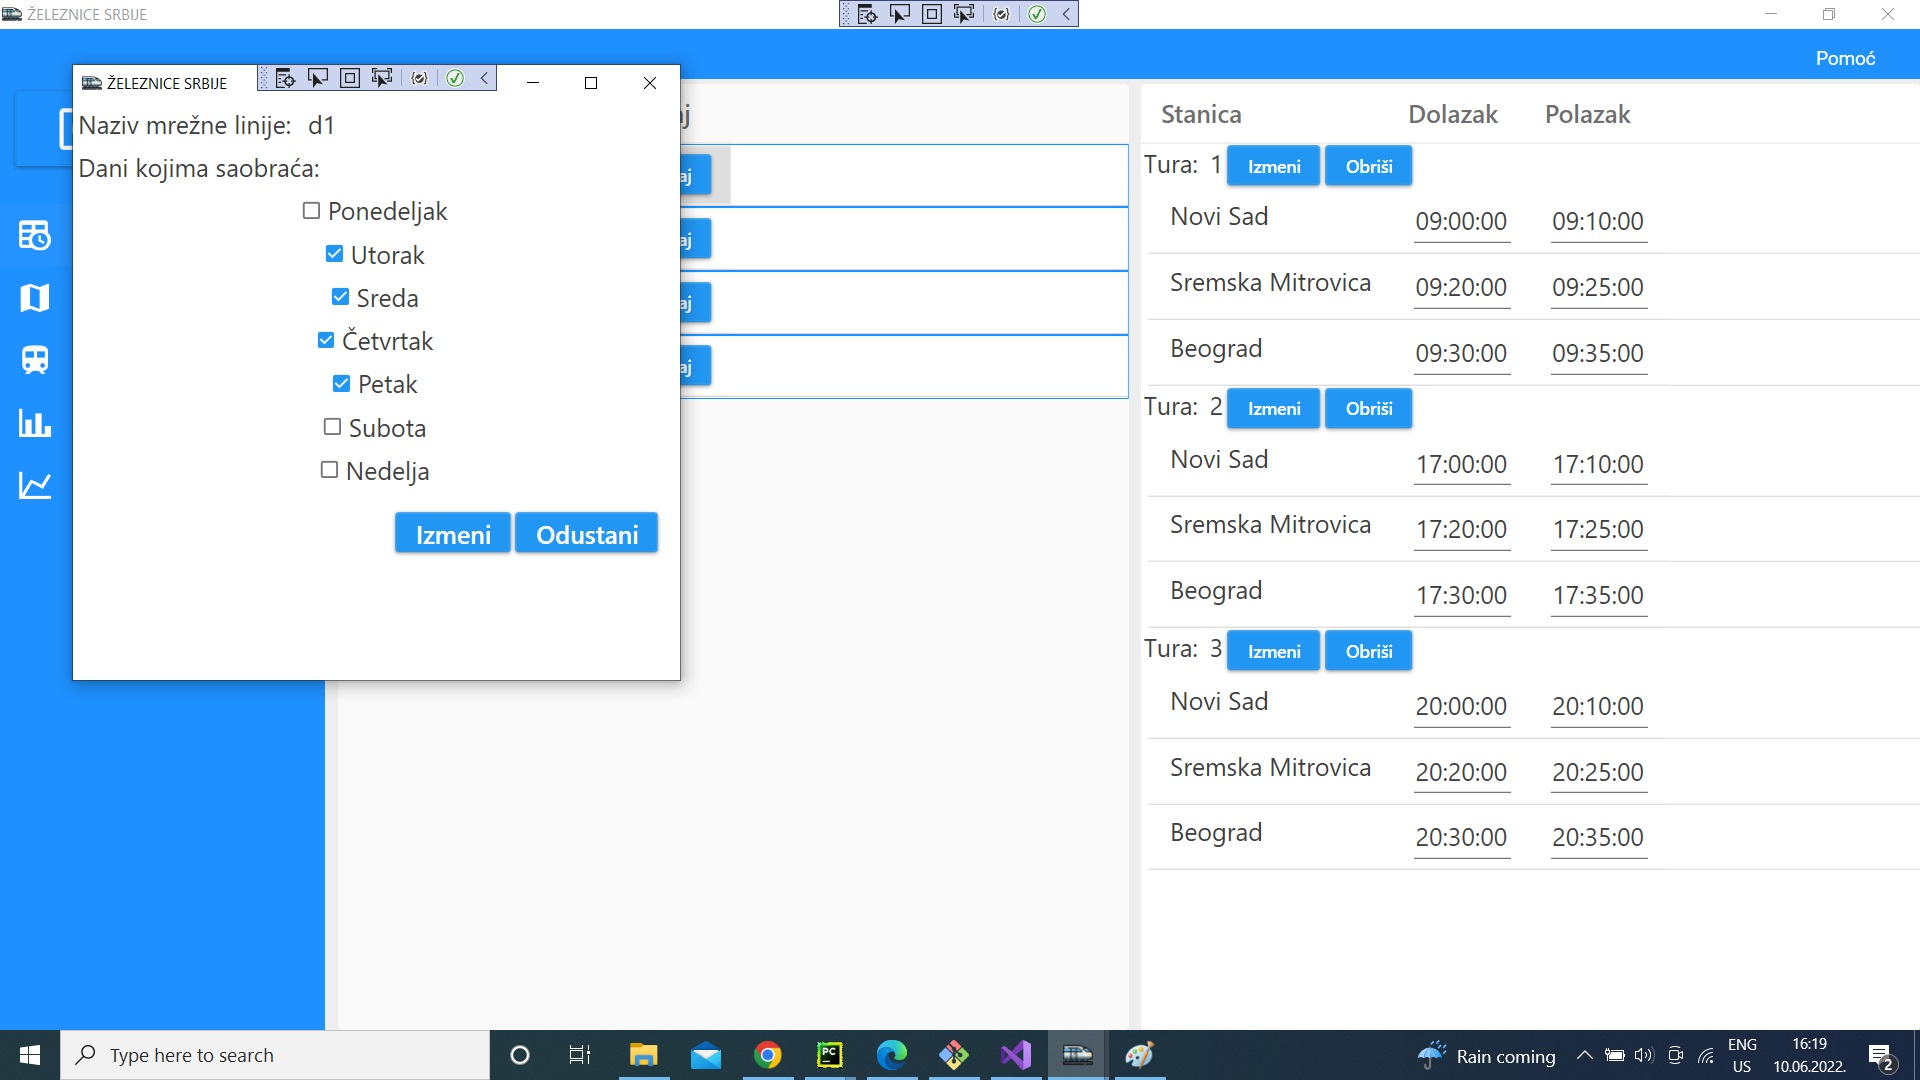
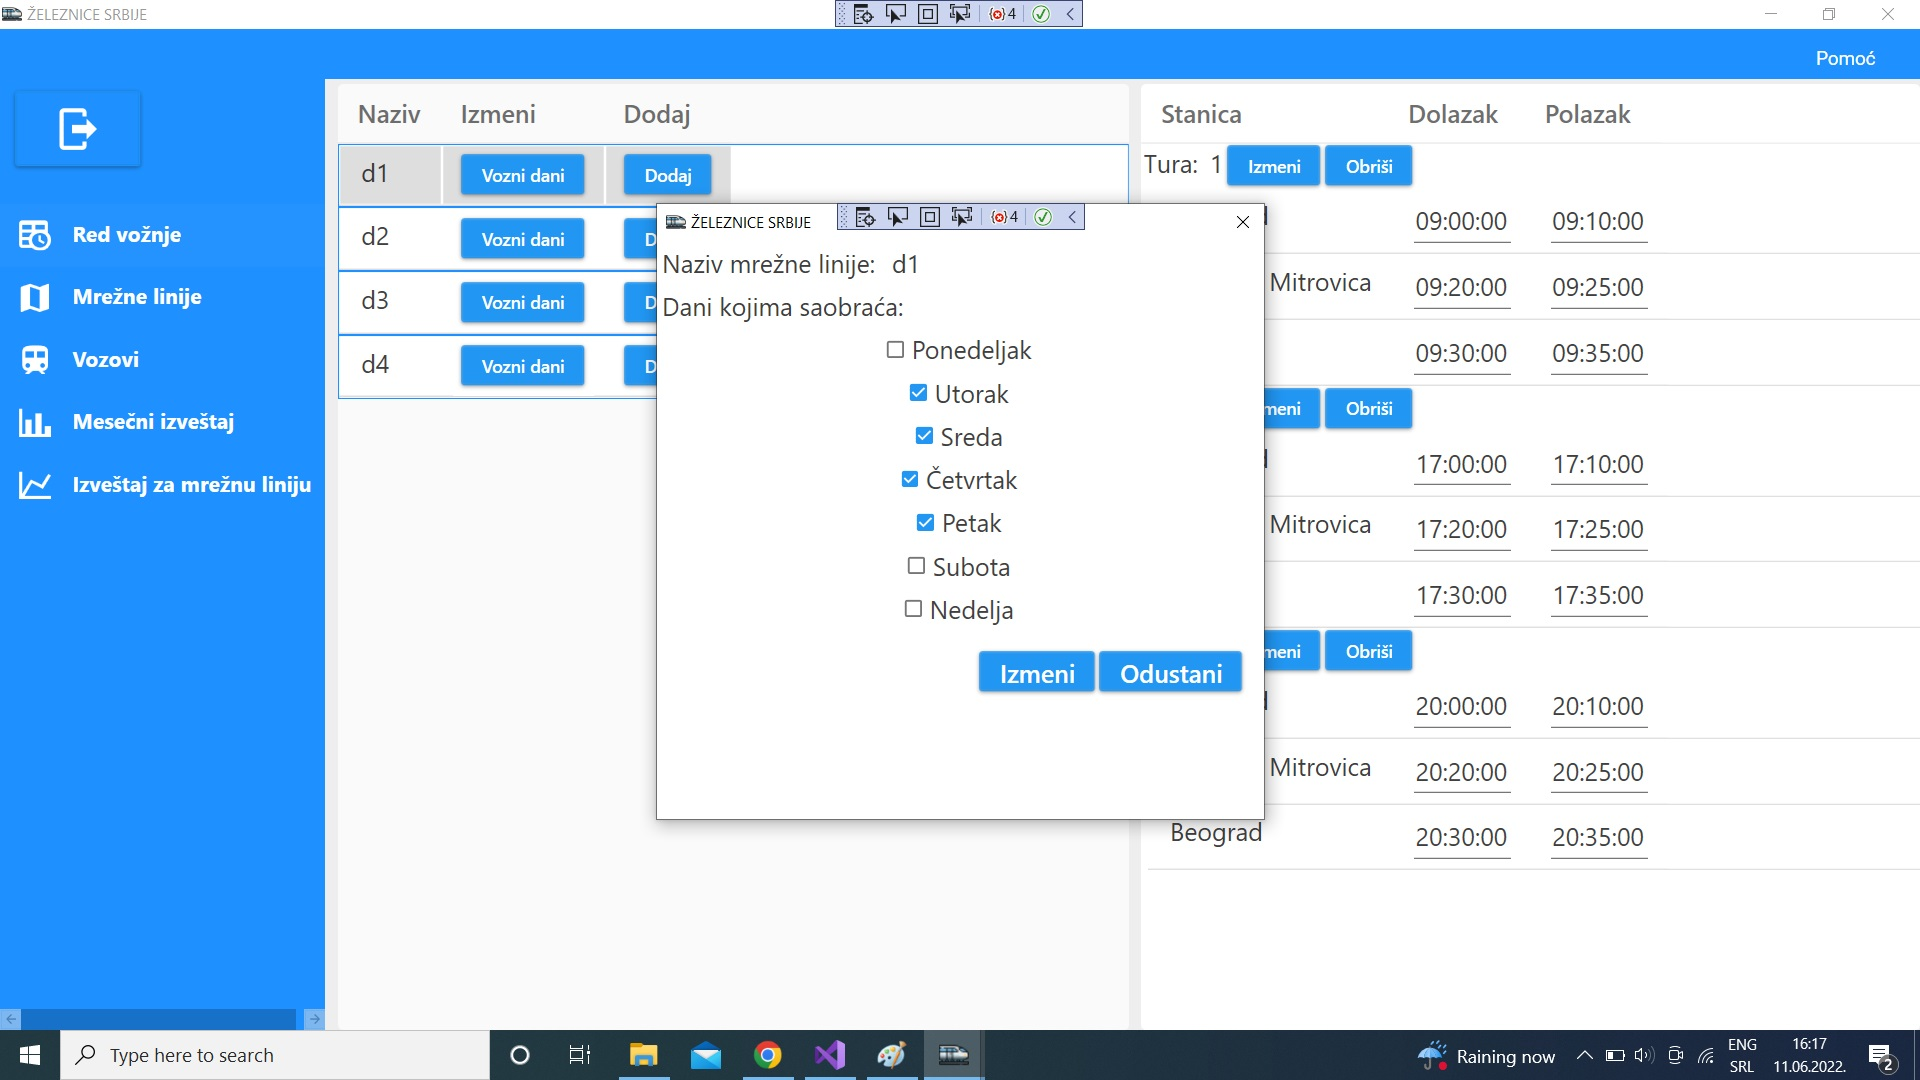
Help

diff --git a/railway/railway/Help/MreznaLinija.htm b/railway/railway/Help/MreznaLinija.htm
@@ -6,7 +6,7 @@
     <title>Mrežna linija</title>
 </head>
 <body>
-    <p style="text-align:left; font-size:30px;"> Otvaranjem taba <i>Mrežna linija</i>, prikazuju se sve aktivne mrežne linije kao na slici 1. Prikazani su naziv linije i voz koji saobraća na toj liniji</p>
+    <p style="text-align:left; font-size:30px;"> Otvaranjem taba <i>Mrežna linija</i> (CTRL + M), prikazuju se sve aktivne mrežne linije kao na slici 1. Prikazani su naziv linije i voz koji saobraća na toj liniji. Za pokretanje tutorijala izaberite iz menija <b>"Pomoć"</b> pa Tutorijal ili ukucajte prečicu na CTRL + P.</p>
     <div style="text-align:center;">
         <img src="../../../../images/mrezneLinijePOCETNA.jpg" style="width:700px; height:500px" />
         <br />
@@ -28,16 +28,14 @@
         <label>Slika 3</label>
     </div>
 
-    <p style="text-align:left; font-size:30px;">Klikom na dugme <b>"+"</b> otvara se prozor koji omogućava dodavanje nove mrežne linije. Definisinje mrežne linije se vrši prevlačenjem naziva grada na mapu. Na slici 4 nalazi se prikaz stanice za definisanje mrežne linije. Pritiskom na dugme "Promeni" otvara se stranica koja omogućuje dodavanje klikom na dugme (Slika 6). </p>
+    <p style="text-align:left; font-size:30px;">Klikom na dugme <b>"+"</b> otvara se prozor koji omogućava dodavanje nove mrežne linije. Definisinje mrežne linije se vrši prevlačenjem naziva grada na mapu. Na slici 4 nalazi se prikaz stanice za definisanje mrežne linije. Pritiskom na dugme <b>"Promeni"</b> otvara se stranica koja omogućuje dodavanje klikom na dugme (Slika 6). </p>
     <div style="text-align:center;">
         <img src="../../../../images/mrezneLinijeNOVAdrag.jpg" style="width:700px; height:500px;" />       
         <br />
         <label>Slika 4</label>
     </div>
 
-
-
-    <p style="text-align:left; font-size:30px;">Pritiskom na dugme "Sačuvaj" otvaraja se prozor za unos naziva mrežne linije i odabira voza (Slika 5). </p>
+    <p style="text-align:left; font-size:30px;">Pritiskom na dugme <b>"Sačuvaj"</b> otvaraja se prozor za unos naziva mrežne linije i odabira voza (Slika 5). </p>
     <div style="text-align:center;">
         <img src="../../../../images/mrezneLinijeSACUVAJ.jpg" style="width:700px; height:500px;" />   
         <br />

diff --git a/railway/railway/ManagerHomePage.xaml b/railway/railway/ManagerHomePage.xaml
@@ -21,6 +21,7 @@
         <CommandBinding Command="cmd:RoutedCommands.DrivingLines" x:Name="DrivingLines" CanExecute="DrivingLines_OnCanExecute" Executed="DrivingLines_OnExecuted"></CommandBinding>
         <CommandBinding Command="cmd:RoutedCommands.Trains" x:Name="Trains" CanExecute="Trains_OnCanExecute" Executed="Trains_OnExecuted"></CommandBinding>
         <CommandBinding Command="cmd:RoutedCommands.Report" x:Name="Report" CanExecute="Report_OnCanExecute" Executed="Report_OnExecuted"></CommandBinding>
+        <CommandBinding Command="cmd:RoutedCommands.Report2" x:Name="Report2" CanExecute="Report2_OnCanExecute" Executed="Report2_OnExecuted"></CommandBinding>
         <CommandBinding Command="ApplicationCommands.Help" Executed="CommandBinding_Executed"/>
         <CommandBinding Command="cmd:RoutedCommands.StartTutorial" x:Name="startTutorial" CanExecute="StartTutorial_OnCanExecute" Executed="StartTutorial_OnExecuted"></CommandBinding>
     </Window.CommandBindings>
@@ -31,13 +32,13 @@
         </Grid.RowDefinitions>
         <StackPanel Grid.Row="0" Grid.Column="0" Height="40" Background="DodgerBlue">
             <Menu Background="DodgerBlue" Foreground="White" HorizontalAlignment="Right" Margin="0,0,20,0">
-                <MenuItem Header="Pomoć" >
-                    <MenuItem Width="200" Header="Pomoć" Command="ApplicationCommands.Help" Click="help_clicked" IsEnabled="True" Foreground="DodgerBlue">
+                <MenuItem Header="Pomoć" x:Name="MenuItem" >
+                    <MenuItem Width="200" Header="Pomoć" Command="ApplicationCommands.Help" Click="help_clicked" IsEnabled="True" x:Name="menuPomoc" Foreground="DodgerBlue">
                         <MenuItem.Icon>
                             <Image Source="/icon/help.png"></Image>
                         </MenuItem.Icon>
                     </MenuItem>
-                    <MenuItem Width="200" Header="Tutorijal" Command="cmd:RoutedCommands.StartTutorial" Click="tutorial_clicked" IsEnabled="True"  Foreground="DodgerBlue"></MenuItem>
+                    <MenuItem Width="200" Header="Tutorijal" Command="cmd:RoutedCommands.StartTutorial" IsEnabled="True"  Foreground="DodgerBlue"></MenuItem>
                 </MenuItem>
             </Menu>
         </StackPanel>

diff --git a/railway/railway/Help/MesecniIzvestaj.htm b/railway/railway/Help/MesecniIzvestaj.htm
@@ -1,0 +1,32 @@
+<!DOCTYPE html>
+
+<html lang="en" xmlns="http://www.w3.org/1999/xhtml">
+<head>
+    <meta charset="utf-8" />
+    <title>Mesečni izveštaji</title>
+</head>
+<body>
+    <p style="text-align:left; font-size:30px;"> Otvaranjem taba <i>Mesečni izveštaji</i>(CTRL + I), prikazuje se stranica na kojoj birate period za koji želite mesečni izveštaj o prodatim kartama.</p>
+    <div style="text-align:center;">
+        <img src="../../../../images/mesecniPOCETNA.jpg" style="width:700px; height:500px" />
+        <br />
+        <label>Slika 1</label>
+    </div>
+
+
+    <p style="text-align: left; font-size: 30px;"> Nakon izbora perioda za koji želite izveštaj i klika na dugme <b>"Prikaži"</b> dobijate izveštaj o prodatim kartama prema tipu sedišta.</p>
+    <div style="text-align:center;">
+        <img src="../../../../images/mesecniSEDISTE.jpg" style="width:700px; height:500px" />
+        <br />
+        <label>Slika 2</label>
+    </div>
+
+    <p style="text-align: left; font-size:30px;">Takođe, možete dobiti pregled prodatih karata prema mrežnim linijama.  </p>
+    <div style="text-align: center;">
+        <img src="../../../../images/mesecniMREZNA.jpg" style="width:700px; height:500px;" />
+        <br />
+        <label>Slika 3</label>
+    </div>
+
+</body>
+</html>

diff --git a/railway/railway/defineDrivingLine/DrivingLines.xaml b/railway/railway/defineDrivingLine/DrivingLines.xaml
@@ -106,14 +106,16 @@
                       MinHeight="200" MaxHeight="700" MinWidth="200"
                       tour:TourHelper.ElementID="datagrid"
                       tour:TourHelper.Placement="BottomCenter">
-            
-            <DataGrid.ItemContainerStyle>
-                <Style TargetType="DataGridRow">
-                    <EventSetter Event="MouseUp" Handler="DrivingLineDataGrid_OnSelected"/>
-                </Style>
-            </DataGrid.ItemContainerStyle>
-                
-            <DataGrid.Columns>
+
+                <DataGrid.RowStyle>
+                    <Style TargetType="{x:Type DataGridRow}" >
+                        <Setter Property="BorderBrush" Value="DodgerBlue" />
+                        <Setter Property="BorderThickness" Value="1" />
+                        <EventSetter Event="MouseUp" Handler="DrivingLineDataGrid_OnSelected"/>
+                    </Style>
+                </DataGrid.RowStyle>
+
+                <DataGrid.Columns>
                 <DataGridTextColumn Header="Ime" Width="Auto" FontSize="20" Binding="{Binding Name}"></DataGridTextColumn>
                 <DataGridTextColumn Header="Voz" Width="Auto" FontSize="20" Binding="{Binding Path=TrainName}" x:Name="TrainName"></DataGridTextColumn>
                 

diff --git a/railway/railway/Help/ManagerAppHelp.htm b/railway/railway/Help/ManagerAppHelp.htm
@@ -8,10 +8,11 @@
 <body>
 
     <h1> Dobro došli na stranicu za pomoć! </h1>
-    <a href="RedVoznje.htm" style="font-size:30px; margin:5px 5px 5px 5px;">Red vožnje</a> <br/>
-    <a href="MreznaLinija.htm" style="font-size:30px; margin:5px 5px 5px 5px;">Mrežna linija</a> <br/>
-    <a href="Vozovi.htm" style="font-size:30px; margin:5px 5px 5px 5px;">Vozovi</a>  <br/>
-    
-
+    <h3 >Za pokretanje tutorijala izaberite iz menija <b>"Pomoć"</b> pa Tutorijal ili ukucajte prečicu na CTRL + P.</h3>
+        <a href="RedVoznje.htm" style="font-size:30px; margin:5px 5px 5px 5px;">Red vožnje</a> <br />
+        <a href="MreznaLinija.htm" style="font-size:30px; margin:5px 5px 5px 5px;">Mrežna linija</a> <br />
+        <a href="Vozovi.htm" style="font-size:30px; margin:5px 5px 5px 5px;">Vozovi</a>  <br />
+        <a href="MesecniIzvestaj.htm" style="font-size:30px; margin:5px 5px 5px 5px;">Mesecni izvestaji o prodatim kartama</a>  <br />
+        <a href="MreznaLinijaIzvestaj.htm" style="font-size:30px; margin:5px 5px 5px 5px;">Izveštaj za voznu liniju</a>  <br />
 </body>
 </html>

diff --git a/railway/railway/Help/MreznaLinijaIzvestaj.htm b/railway/railway/Help/MreznaLinijaIzvestaj.htm
@@ -1,0 +1,24 @@
+<!DOCTYPE html>
+
+<html lang="en" xmlns="http://www.w3.org/1999/xhtml">
+<head>
+    <meta charset="utf-8" />
+    <title>Izveštaj za voznu liniju</title>
+</head>
+<body>
+    <p style="text-align:left; font-size:30px;"> Otvaranjem taba <i>Izveštaj za mrežnu liniju</i> (CTRL + O), prikazuje se stranica na kojoj birate mrežnu liniju za koju se prikaže izveštaj o broju i tipu prodatih karata.</p>
+    <div style="text-align:center;">
+        <img src="../../../../images/izvestajVOZNA.jpg" style="width:700px; height:500px" />
+        <br />
+        <label>Slika 1</label>
+    </div>
+
+
+    <p style="text-align: left; font-size: 30px;"> Nakon izbora mrežne linije prikazuje se izveštaj grafički i tabelarno.</p>
+    <div style="text-align:center;">
+        <img src="../../../../images/mesecniSEDISTE.jpg" style="width:700px; height:500px" />   ovde fali slika animacija ode
+        <br />
+        <label>Slika 2</label>
+    </div>
+</body>
+</html>

diff --git a/railway/railway/defineDrivingLine/ViewDrivingLines.xaml b/railway/railway/defineDrivingLine/ViewDrivingLines.xaml
@@ -11,7 +11,6 @@
              MinWidth="400">
     <UserControl.CommandBindings>
         <CommandBinding Command="ApplicationCommands.Help" Executed="CommandBinding_Executed"/>
-        <CommandBinding Command="cmd:RoutedCommands.Insert" x:Name="InsertDrivingLine" CanExecute="InsertDrivingLine_OnCanExecute" Executed="InsertDrivingLine_OnExecuted"></CommandBinding>
 
     <!--    <CommandBinding Command="cmd:RoutedCommands.MoveBack" x:Name="goBack" CanExecute="GoBack_OnCanExecute" Executed="GoBack_OnExecuted"></CommandBinding>
         <CommandBinding Command="cmd:RoutedCommands.MoveForward" x:Name="goForward" CanExecute="GoForward_OnCanExecute" Executed="GoForward_OnExecuted"></CommandBinding>-->

diff --git a/railway/railway/managerSchedule/ChangeTrafficDay.xaml b/railway/railway/managerSchedule/ChangeTrafficDay.xaml
@@ -8,7 +8,8 @@
         xmlns:cmd="clr-namespace:railway.Commands"
         xmlns:l="clr-namespace:railway"
         Icon="/icon/trainIcon.png"
-        Title="ŽELEZNICE SRBIJE" Height="500" Width="500" MaxHeight="500" MaxWidth="500">
+        Title="ŽELEZNICE SRBIJE" Height="500" Width="500" MaxHeight="500" MaxWidth="500"
+        WindowStartupLocation="CenterScreen" ResizeMode="NoResize">
     <Window.CommandBindings>
         <CommandBinding Command="ApplicationCommands.Help" Executed="CommandBinding_Executed"/>
         <CommandBinding Command="cmd:RoutedCommands.Save" x:Name="save" CanExecute="Save_OnCanExecute" Executed="Save_OnExecuted"></CommandBinding>

diff --git a/railway/railway/Help/RedVoznje.htm b/railway/railway/Help/RedVoznje.htm
@@ -6,7 +6,7 @@
     <title>Red vožnje</title>
 </head>
 <body>
-    <p style="text-align:left; font-size:30px;"> Otvaranjem taba <i>Red vožnje</i>, prikazuju se sve aktivne mrezne linije kao na slici 1.</p>
+    <p style="text-align:left; font-size:30px;"> Otvaranjem taba <i>Red vožnje</i> (CTRL + R), prikazuju se sve aktivne mrežne linije kao na slici 1. Za pokretanje tutorijala izaberite iz menija <b>"Pomoć"</b> pa Tutorijal ili ukucajte prečicu na CTRL + P. </p>
     <div style="text-align:center;">
         <img src="../../../../images/redVoznjePocetna.jpg" style="width:700px; height:500px" />
         <br/>

diff --git a/railway/railway/CRUDTrain/AddTrain.xaml b/railway/railway/CRUDTrain/AddTrain.xaml
@@ -8,10 +8,12 @@
         xmlns:l="clr-namespace:railway"
         WindowStartupLocation="CenterScreen"
         mc:Ignorable="d"
+        xmlns:cmd="clr-namespace:railway.Commands"
         Icon="/icon/trainIcon.png"
         Title="ŽELEZNICE SRBIJE"  Height="350" Width="650" ResizeMode="NoResize">
     <Window.CommandBindings>
         <CommandBinding Command="ApplicationCommands.Help" Executed="CommandBinding_Executed"/>
+        <CommandBinding Command="cmd:RoutedCommands.Save" x:Name="save" CanExecute="Save_OnCanExecute" Executed="Save_OnExecuted"></CommandBinding>
     </Window.CommandBindings>
 
     <Grid>

diff --git a/railway/railway/Help/Vozovi.htm b/railway/railway/Help/Vozovi.htm
@@ -6,7 +6,7 @@
     <title>Vozovi</title>
 </head>
 <body>
-    <p style="text-align:left; font-size:30px;"> Otvaranjem taba <i>Vozovi</i>, prikazuju se svi aktivni vozovi kao na slici 1.</p>
+    <p style="text-align:left; font-size:30px;"> Otvaranjem taba <i>Vozovi</i> (CTRL + T), prikazuju se svi aktivni vozovi kao na slici 1. Za pokretanje tutorijala izaberite iz menija <b>"Pomoć"</b> pa Tutorijal ili ukucajte prečicu na CTRL + P.</p>
     <div style="text-align:center;">
         <img src="../../../../images/vozoviPocetna.jpg" style="width:700px; height:500px" />
         <br />

diff --git a/railway/railway/managerSchedule/AddNewScheduleWindow.xaml b/railway/railway/managerSchedule/AddNewScheduleWindow.xaml
@@ -8,7 +8,7 @@
         xmlns:cmd="clr-namespace:railway.Commands"
         xmlns:l="clr-namespace:railway"
         Icon="/icon/trainIcon.png"
-        Title="ŽELEZNICE SRBIJE" Height="450" Width="600" MaxWidth="600">
+        Title="ŽELEZNICE SRBIJE" Height="450" Width="600" MaxWidth="600" WindowStartupLocation="CenterScreen" ResizeMode="NoResize">
         
     <Window.CommandBindings>
         <CommandBinding Command="ApplicationCommands.Help" Executed="CommandBinding_Executed"/>
